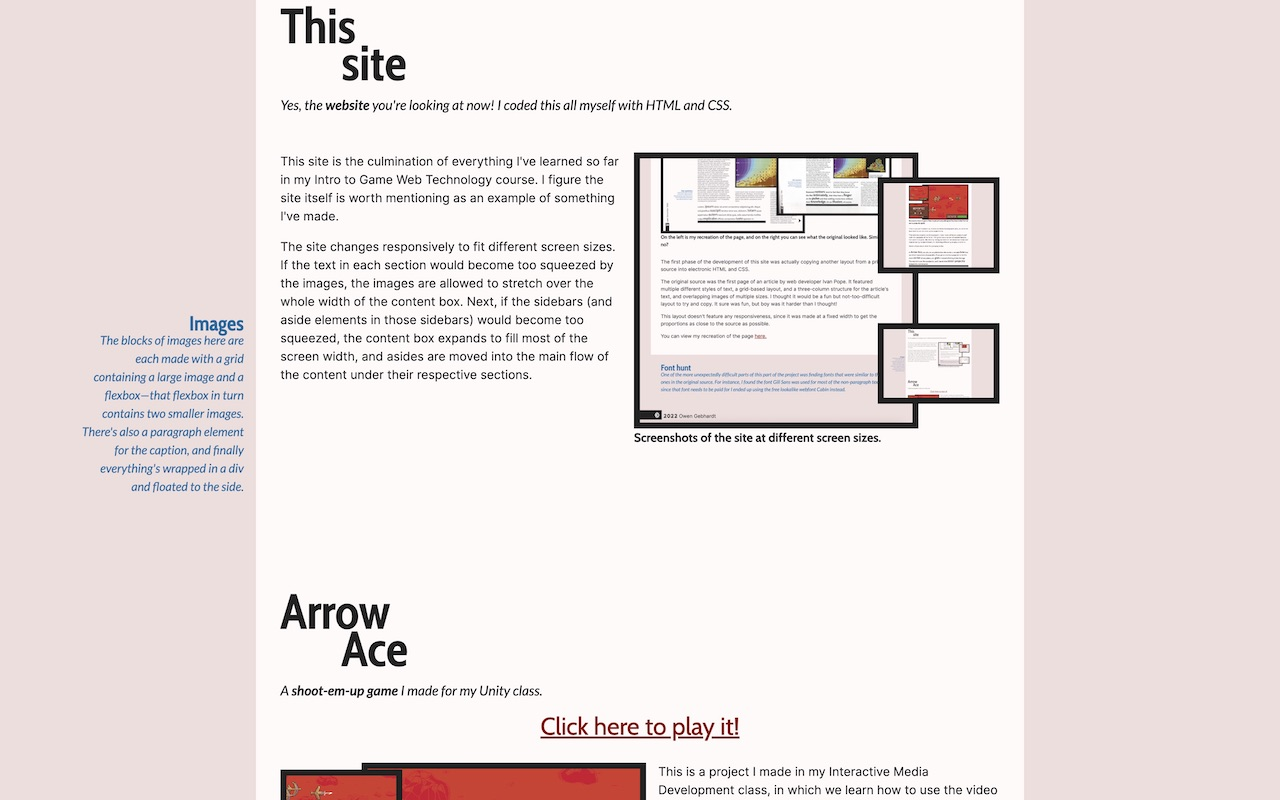
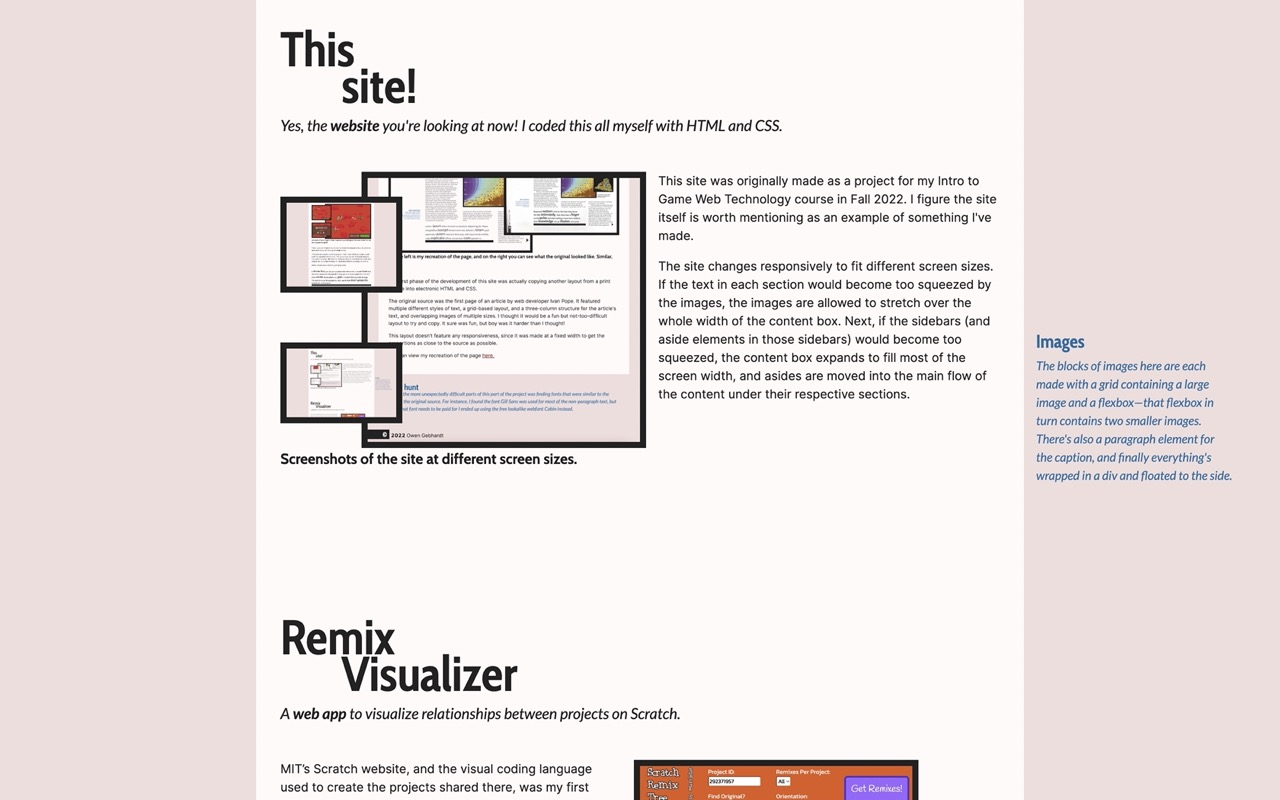
Homepage: Fixed responsiveness

diff --git a/Homepage/index.html b/Homepage/index.html
@@ -56,7 +56,7 @@
                 </div>
                 <div class="text">
                     <p>For the final project in my Intro to Game Web Technology course during Fall 2022, I needed to design and program a video game to run in a web browser. As I kid, I used to play with a set of plastic puzzle pieces called tangrams, which includes a number of specific triangles and quadrilaterals. I brainstormed off from that idea and decided on a design for a puzzle game that tasks the player with fitting a set of angular pieces snugly into a board, much like a jigsaw puzzle.</p>
-                    <a class="demo" href="../Tangrams/" target="_blank">Click here to play it!</a>
+                    <a class="demo" href="/org7993/235/project3" target="_blank">Click here to play it!</a>
                     <p><br>Each puzzle is created by procedurally dividing a full board into a random set of pieces, which are assigned a random color and scattered on the left to hide their original positions. Each piece is stored as a list of positions representing the filled triangles they’re made of, which is cross-referenced against a grid of occupied and unoccupied triangles in the board whenever one is placed.</p>
                     <p>I hope to continue development on this game in the future. Due to the way triangle directionality is processed, pieces can currently only be placed on tiles that allow the diagonal lines across each square to match up. I’d like to remove this restriction to make gameplay more intuitive and allow greater creativity. Additionally, playtesting revealed that the piece sizes need to be more constrained: puzzles often contain tiny triangles that can fit anywhere and large pieces that can only fit in one place, both of which are uninteresting to deal with. Finally, I’d like to improve the graphics and color choices, since they’re currently unpolished and functional “programmer art.”</p>
                 </div>
@@ -125,7 +125,7 @@
                 <div class="text">
                     <p>MIT’s Scratch website, and the visual coding language used to create the projects shared there, was my first introduction to the practice of programming 12 years ago. It’s very important to me, and I still use it today to share short games and animations with my friends from high school. When I was given an assignment to build a browser application that interfaces with the API of another website, I decided to use the Scratch API to create a site that would be useful to me and my friends.</p>
                     <p>One of Scratch’s primary features is the ability to view the code of projects written by others, and create a derivative project called a “remix” by modifying any project’s code and assets. In the previous official version of the Scratch website, Scratch 2.0, each project could be viewed in a “remix tree,” which visualized the connections between projects and their remixes in a phylogenetic tree–like diagram. This feature has become deprecated on the official site, and the visualization breaks down if looking at a long enough chain of remixes. I sought to recreate this feature using the skills I learned about the DOM and JavaScript in a way that would remain effective with large numbers of projects.</p>
-                    <a class="demo" href="../RemixVisualizer/" target="_blank">Click here to use the site!</a>
+                    <a class="demo" href="/org7993/235/project2/" target="_blank">Click here to use the site!</a>
                     <p><br>The site builds the tree out of recursively wrapped div elements. Each container div contains another div, which stores the thumbnail and other info, and a flexbox, which stores all the containers for that project’s remixes. Using a flexbox allows the orientation of the tree to be changed at any time just by loading a different style sheet.</p>
                     <p>Finally, I polished it with some QOL features to make the app easier to use. Rolling over a project will show its title, creator, and interaction statistics. I also included a few options for how the tree will be loaded, and the user can tell the site to find the root project (if there is one) or to only load a certain number of remixes per project.</p>
                     <p>There’s a few ways I would like to improve this site in the future. I originally wanted to let the user scroll through remixes of the same parent project if there were too many, which would help make the full-scale tree easier to navigate, but I didn’t have time to implement it. I’d also like to condense how the rollover information is displayed, since it tends to cover up adjacent projects. Scratch also has a feature for embedding a project within a page, and I think it’d be convenient if you could play projects right within the site.</p>

diff --git a/Homepage/css/mainpage.css b/Homepage/css/mainpage.css
@@ -24,7 +24,7 @@ body {
     background-color: var(--pal-background-light);
     color: var(--pal-dark);
     font-family: Inter, sans-serif;
-    font-size: 18px;
+    font-size: 16px;
 }
 
 footer {
@@ -38,18 +38,19 @@ footer {
 h1 {
     font-family: 'Cabin Condensed', sans-serif;
     text-transform: uppercase;
-    font-size: 90px;
+    font-size: 5.5em;
 }
 
 h2 {
     font-family: 'Cabin Condensed', sans-serif;
-    font-size: 65px;
+    font-size: 4em;
     line-height: 0.75em;
 }
 
 h3 {
     font-family: Lato, sans-serif;
     font-style: italic;
+    font-size: 1.25em;
     line-height: 1.6em;
 }
 
@@ -58,7 +59,6 @@ img {
 }
 
 p {
-    font-size: 16px;
     line-height: 1.5em;
 }
 
@@ -151,7 +151,7 @@ a#pagetop:active {
 
 #pagemarker .box {
     font-family: 'Cabin Condensed', sans-serif;
-    font-size: 1.5rem;
+    font-size: 1.5em;
     text-align: center;
     padding: 2px;
     padding-bottom: 3rem;
@@ -289,7 +289,7 @@ a#pagetop:active {
 
 #navigation a p {
     background-color: var(--pal-highlight);
-    font-size: 2.5rem;
+    font-size: 2.5em;
     height: 100%;
     padding: 0 0.5rem;
     border-left: 0.25rem solid var(--pal-dark);
@@ -406,6 +406,7 @@ a#pagetop:active {
 .demo {
     font-family: 'Cabin', sans-serif;
     display: block;
+    clear: both;
     text-align: center;
     font-size: 2rem;
     margin: auto;
@@ -461,6 +462,7 @@ a#pagetop:active {
 }
 
 .imagecorner .caption {
+    font-size: 1.2em;
     font-family: Cabin, sans-serif;
     font-weight: bold;
 }
@@ -508,7 +510,7 @@ a#pagetop:active {
 
 .excerpt p {
     font-family: Cabin, sans-serif;
-    font-size: 18px;
+    font-size: 1.2em;
     border-bottom: 10px solid var(--pal-dark);
     box-sizing: border-box;
     width: 100%;
@@ -528,7 +530,6 @@ a#pagetop:active {
     font-family: Lato, sans-serif;
     line-height: 1.2em;
     margin: 0 1rem;
-    font-size: 16px;
     text-align: right;
     margin-bottom: 2em;
 }
@@ -550,8 +551,9 @@ a#pagetop:active {
 }
 
 .sidebar aside h2 {
-    font-size: 150%;
+    font-size: 1.5rem;
     font-weight: bold;
+    line-height: 1.5rem;
     margin-bottom: 0.5rem;
 }
 
@@ -595,19 +597,25 @@ a#pagetop:active {
 .sidebar code p {
     width: max-content;
     margin: 0;
+    font-size: 1em;
 }
 
 
 
-@media screen and (max-width: 70rem) {
+@media screen and (max-width: 75em) {
     .imagecorner {
         width: 100%;
     }
 }
 
-@media screen and (max-width: 55rem), (orientation: portrait) {
+@media screen and (max-width: 65em),
+screen and (orientation: portrait) {
     body {
         background-color: var(--pal-background-dark);
+    }
+
+    h3 {
+        font-size: 2em;
     }
 
     #headline {
@@ -623,7 +631,7 @@ a#pagetop:active {
     }
 
     #headline .center h1 {
-        font-size: 10vw;
+        font-size: 9vw;
         width: 70vw;
     }
     
@@ -645,11 +653,15 @@ a#pagetop:active {
     }
 
     #navigation a p {
-        font-size: 3vw;
+        font-size: 3.5vw;
     }
 
     .imagecorner {
         width: 100%;
+    }
+
+    .imagecorner .caption {
+        font-size: 1.5rem;
     }
 
     .piece {
